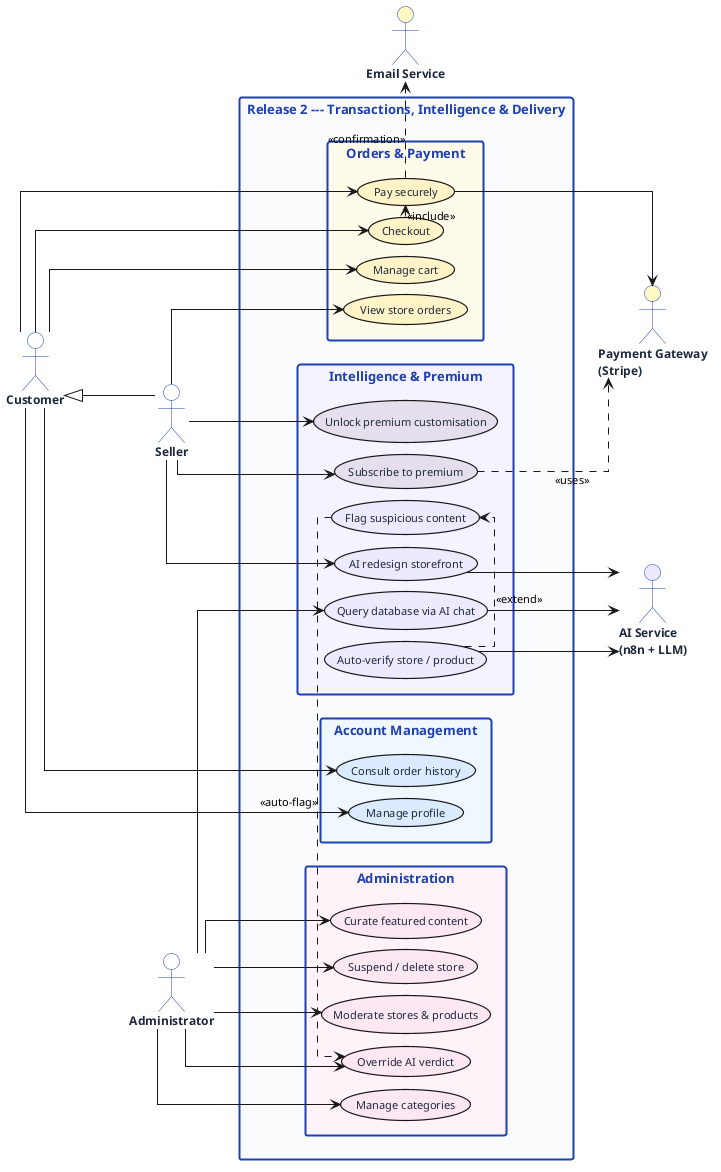
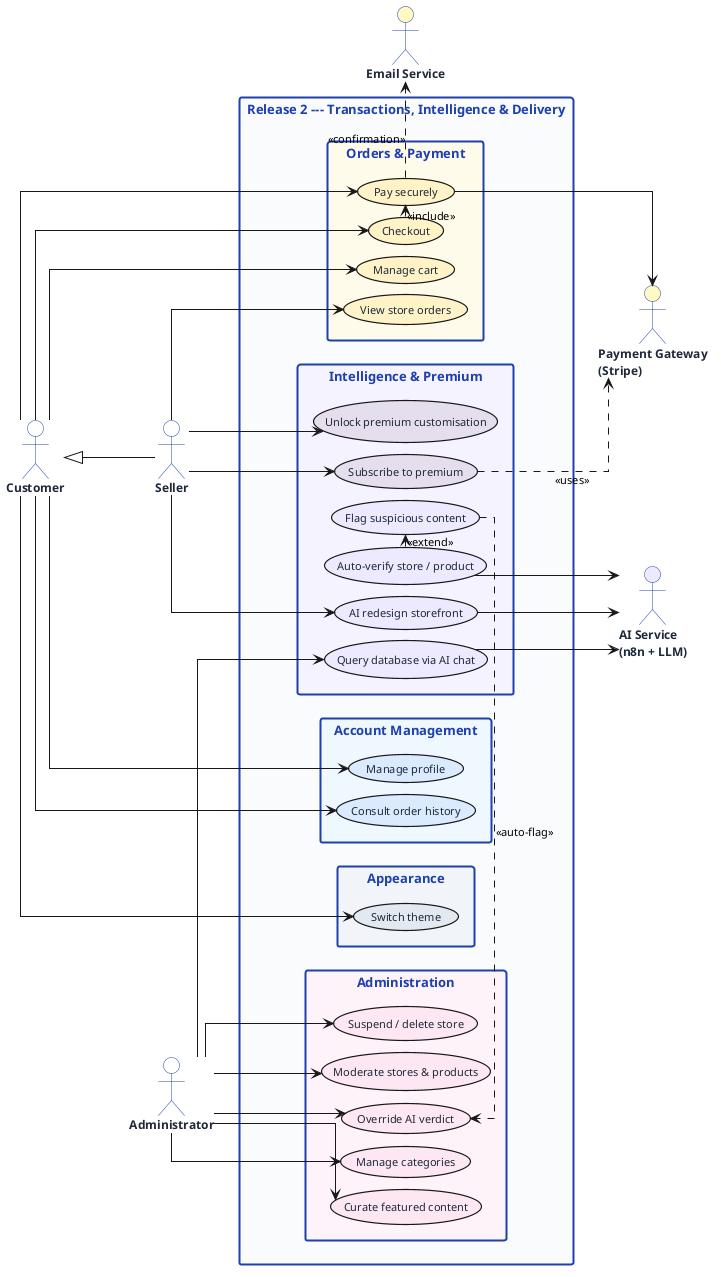
docs: fold dark-mode theming into the report scope
Document the dark-mode / theming feature added to the application as a
core project deliverable, threaded through every dependent artifact so
the Scrum narrative stays consistent (mirrors the password-reset +
account-management fold-in).

Backlog (Ch.2): add a 10th feature F10 Appearance & Theming with US40
(switch between a light and a dimmed dark theme, or follow the system
preference); update the counts to 40 user stories across 10 features and
the sprint plan (US40 -> Sprint 4).

Release 2 / Sprint 4 (Ch.4): add the Appearance & Theming feature row
(R2 total 49), thread theming through the release overview, the sprint
objective and the chapter conclusion, add a Switch theme textual use
case and a theming realisation placeholder.

Use-case diagrams: add a Switch theme use case to uc-sprint4 (new generic
User actor) and uc-release2 (wired to Customer); re-render the two PNGs.
No domain entities change (the theme preference lives in device-local
storage), so the class diagrams are untouched.

Test totals updated to reflect the new frontend suites: 479 tests
(backend 346, frontend 133); pyramid base layer 168. Also fix a stale
spelled-out "thirty-six user stories" left in the General Conclusion
(now "forty").

verify.sh: reconcile the changed count gates and add a slice #14 gate
block for the theming fold-in (152 gates, all green).

diff --git a/chap_04.tex b/chap_04.tex
@@ -25,7 +25,8 @@ stores in a single order, and pay through Stripe, while administrators
 moderate stores and products, curate featured content and manage
 categories. Sprint~4 adds the intelligence and delivery layers: automated
 AI verification of new stores and products, the AI database-chat
-assistant, the premium subscription tier, and the test suite and
+assistant, the premium subscription tier, a light/dark theming option,
+and the test suite and
 deployment pipeline. As before, the architecture and technology stack of
 Section~\ref{chap:requirements} are not repeated; this release
 instantiates them for the transactional, intelligence and delivery
@@ -66,8 +67,8 @@ trail and the featured-content entities.
 
 The release backlog draws the remaining user stories from the product
 backlog of Section~\ref{chap:requirements} --- including the payment
-story US36 and the account-management stories US38--US39 --- and
-allocates them to the two sprints, as summarised in
+story US36, the account-management stories US38--US39 and the theming
+story US40 --- and allocates them to the two sprints, as summarised in
 Table~\ref{tab:backlog-r2}.
 
 \begin{table}[H]
@@ -84,10 +85,11 @@ Table~\ref{tab:backlog-r2}.
     \multirow{3}{*}{Sprint 3} & Order System \& Payment & US14--US17, US36 & 11 \\ \cline{2-4}
                               & Account Management      & US38, US39       & 3 \\ \cline{2-4}
                               & Administration          & US19--US21       & 4 \\ \hline
-    \multirow{3}{*}{Sprint 4} & AI Verification         & US22--US24, US35 & 8 \\ \cline{2-4}
+    \multirow{4}{*}{Sprint 4} & AI Verification         & US22--US24, US35 & 8 \\ \cline{2-4}
                               & Premium Tier            & US25--US27       & 8 \\ \cline{2-4}
+                              & Appearance \& Theming   & US40             & 2 \\ \cline{2-4}
                               & CI/CD \& Deployment     & US28--US33       & 13 \\ \hline
-    \multicolumn{3}{|r|}{\textbf{Release~2 total}} & \textbf{47} \\ \hline
+    \multicolumn{3}{|r|}{\textbf{Release~2 total}} & \textbf{49} \\ \hline
   \end{tabularx}
 \end{table}
 
@@ -362,7 +364,11 @@ natural-language database chat assistant for diagnostics, and sellers can
 subscribe to a premium tier --- reusing the Stripe machinery of Sprint~3
 --- that unlocks the full customisation set and multiple stores. The AI
 capabilities are delivered through three independent n8n workflows
-invoked by the backend over HTTP.
+invoked by the backend over HTTP. Finally, the sprint rounds out the user
+experience with an appearance option: a light and a dimmed dark theme,
+chosen explicitly or following the operating-system preference and
+applied consistently across the application chrome through CSS design
+tokens.
 
 \subsection{Sprint Use-Case Diagram}
 
@@ -381,7 +387,7 @@ multiple stores through the Stripe gateway.
 
 \subsection{Analysis and Design}
 
-The three central use cases of the sprint are specified textually, then
+The four central use cases of the sprint are specified textually, then
 the verification and moderation control flows are given as activity
 diagrams and the verification exchange as a sequence diagram.
 
@@ -441,6 +447,25 @@ diagrams and the verification exchange as a sequence diagram.
     Post-conditions & After a successful Stripe payment, \texttt{isPremium} becomes \texttt{true} and \texttt{premiumExpiresAt} is set to a future date; premium customisation fields and multi-store operation are unlocked. \\ \hline
     Nominal scenario & 1.~The seller opens the premium plan. \newline 2.~The seller pays through the same Stripe machinery used at checkout. \newline 3.~On payment success the account is marked premium with an expiry date. \newline 4.~The premium controls unlock. \\ \hline
     Alternative scenarios & A1.~The subscription expires: premium fields lock for further editing, but the existing premium customisation values are preserved and remain visible to buyers (US27). \\ \hline
+  \end{tabularx}
+\end{table}
+
+\begin{table}[H]
+  \centering
+  \caption{Textual description of the \emph{Switch theme} use case.}
+  \label{tab:uc-theme}
+  \renewcommand{\arraystretch}{1.25}
+  \begin{tabularx}{\textwidth}{|>{\bfseries}p{3cm}|X|}
+    \hline
+    \rowcolor{tableHeader}
+    \multicolumn{2}{|l|}{\textcolor{white}{\textbf{Use case: Switch theme}}} \\
+    \hline
+    Actor & Any user, whether authenticated or not. \\ \hline
+    Objective & Choose how the application is rendered: a light theme, a dimmed dark theme, or automatically following the operating-system preference. \\ \hline
+    Pre-conditions & None; the theme switch is reachable from any page through the navigation chrome. \\ \hline
+    Post-conditions & The interface re-themes immediately and the choice is persisted on the device, so it is re-applied before first paint on later visits. \\ \hline
+    Nominal scenario & 1.~The user opens the theme switch and picks light, dark or system. \newline 2.~The interface re-themes at once through CSS design tokens, with no page reload. \newline 3.~The preference is stored locally and restored on the next visit before the first paint, so there is no flash of the wrong theme. \\ \hline
+    Alternative scenarios & A1.~The user picks \emph{system}: the interface follows the OS light/dark setting and updates live when that setting changes. \newline A2.~A seller storefront keeps its own seller-chosen palette and is intentionally not overridden by the application theme. \\ \hline
   \end{tabularx}
 \end{table}
 
@@ -533,7 +558,7 @@ subscription never degrades a storefront that is already live.
 
 \subsection{Realisation}
 
-The sprint delivers the AI-facing interfaces shown below. Each frame is a
+The sprint delivers the interfaces shown below. Each frame is a
 placeholder for the corresponding screenshot of the running application.
 
 \begin{figure}[H]
@@ -550,10 +575,17 @@ placeholder for the corresponding screenshot of the running application.
   \label{fig:real-aichat}
 \end{figure}
 
+\begin{figure}[H]
+  \centering
+  \imagePlaceholder[6cm]{Appearance --- the same page in the light theme and in the dimmed dark theme, with the theme switch open in the navigation bar}
+  \caption{Light and dimmed-dark application themes.}
+  \label{fig:real-theme}
+\end{figure}
+
 \section{Tests \& Validation}
 \label{sec:tests}
 
-Quality is enforced by an automated suite of \textbf{473 tests} that runs
+Quality is enforced by an automated suite of \textbf{479 tests} that runs
 on every push and gates every deployment.
 
 \subsection{Testing Strategy and Tooling}
@@ -593,12 +625,12 @@ layers.
     \footnotesize Real service code, mocked Prisma \\
     \footnotesize Product, Store, Order, Payment, User, Settings, Notification, \ldots \\[4pt]
     \hline\\[-6pt]
-    \textbf{Pure-logic + frontend (162 tests)} \\
+    \textbf{Pure-logic + frontend (168 tests)} \\
     \footnotesize No I/O, no framework wiring \\
     \footnotesize \texttt{validate-env}, \texttt{tndToStripeUsdMinor}, guards; stores, hooks, components \\
   \end{tabular}}
   \end{minipage}
-  \caption{Test pyramid --- 473 tests across backend (Jest, 346) and frontend (Vitest, 127).}
+  \caption{Test pyramid --- 479 tests across backend (Jest, 346) and frontend (Vitest, 133).}
   \label{fig:test-pyramid}
 \end{figure}
 
@@ -617,9 +649,11 @@ authorisation wiring admits exactly the intended routes.
 \subsection{Frontend Tests}
 
 The frontend tests cover the Zustand stores, the custom hooks and the
-React components, mounting them in a jsdom environment and asserting on
-accessible, user-visible output. Together with the backend suite they
-give the layered coverage summarised in the pyramid above.
+React components --- including the theme switch and the centralised
+status-badge helper introduced with the light/dark theming --- mounting
+them in a jsdom environment and asserting on accessible, user-visible
+output. Together with the backend suite they give the layered coverage
+summarised in the pyramid above.
 
 \subsection{Code Coverage and Continuous Integration}
 
@@ -779,9 +813,10 @@ purchase history, and the administration tooling to moderate stores and
 products, curate featured content and manage categories.
 Sprint~4 added the intelligence and delivery layers --- the automated AI
 verification pipeline with administrative override, the database chat
-assistant, the premium tier built on the same payment machinery, and the
+assistant, the premium tier built on the same payment machinery, a light
+and dimmed-dark theming option, and the
 testing and DevOps that bring the platform to production: a layered suite
-of 473 tests, containerised services behind a TLS-terminating proxy,
+of 479 tests, containerised services behind a TLS-terminating proxy,
 infrastructure described with Terraform, and a GitHub Actions pipeline
 that tests, builds and deploys on every push to \texttt{main}. The
 marketplace planned in the first two chapters is now fully realised,

diff --git a/chap_02.tex b/chap_02.tex
@@ -335,12 +335,15 @@ the estimated complexity.
   & US38 & As a user, I want to view and edit my profile and change my password so that I can keep my account details current and secure. & \cellcolor{moscowMust}\textbf{Must} & \cellcolor{complexMed}\textbf{2} \\\hline
   \cellcolor{featAccount}~ & US39 & As a customer, I want to consult my purchase history so that I can review my past orders. & \cellcolor{moscowShould}\textbf{Should} & \cellcolor{complexLow}\textbf{1} \\\hline
 
+  \cellcolor{featTheme}\makecell[c]{\textbf{F10}\\\small Appearance\\\& Theming}
+  & US40 & As a user, I want to switch between a light and a dimmed dark theme, or follow my system preference, so that I can browse comfortably in low light. & \cellcolor{moscowCould}\textbf{Could} & \cellcolor{complexMed}\textbf{2} \\\hline
+
 \end{longtable}
 
 \subsection{Analysis Summary}
 
-The product backlog comprises \textbf{39 user stories} across
-\textbf{9 features}. The bulk are \textit{Must} or \textit{Should}
+The product backlog comprises \textbf{40 user stories} across
+\textbf{10 features}. The bulk are \textit{Must} or \textit{Should}
 priorities forming the marketplace core, while a few advanced
 capabilities (AI redesign, premium-customisation preservation) are
 \textit{Could} items scheduled only once the essentials are delivered.
@@ -374,7 +377,7 @@ goal and user stories.
     \multirow{2}{*}{\textbf{Release 2}}
       & Sprint 3 & Orders, payment, account and administration & US14--US17, US19--US21, US36, US38, US39 \\
     \cline{2-4}
-      & Sprint 4 & AI verification, premium tier and DevOps & US22--US33, US35 \\
+      & Sprint 4 & AI verification, premium tier, theming and DevOps & US22--US33, US35, US40 \\
     \hline
   \end{tabularx}
 \end{table}
@@ -526,7 +529,7 @@ actors were identified, the functional requirements grouped into seven
 domains and the non-functional requirements stated, then illustrated
 with the global use-case diagram and the class diagram. The Scrum
 management of the project was presented --- the team, the MoSCoW-prioritised
-product backlog of 39 user stories across 9 features, and the planning
+product backlog of 40 user stories across 10 features, and the planning
 of four sprints over two releases --- together with the schedule and the
 architecture and technical choices that frame the realisation. The
 following chapters describe the development of the two releases.

diff --git a/conclusion.tex b/conclusion.tex
@@ -15,7 +15,7 @@ situating the project in its organisational and competitive context, we
 analysed the requirements, identified the actors, and specified the
 functional and non-functional needs, which we modelled with UML use-case
 and class diagrams. The Scrum framework then organised the work into a
-product backlog of thirty-six user stories and a plan of two releases of
+product backlog of forty user stories and a plan of two releases of
 two sprints each, underpinned by the architecture and technical choices
 that frame the realisation.
 
@@ -31,7 +31,7 @@ server-authoritative Stripe payment flow confirmed by a
 signature-verified webhook; the administration and moderation tooling; an
 automated AI verification pipeline with administrative override and a
 natural-language database-chat assistant; a premium subscription tier;
-and the quality and delivery layers --- a layered suite of 473 automated
+and the quality and delivery layers --- a layered suite of 479 automated
 tests, containerised services behind a TLS-terminating reverse proxy,
 infrastructure described as code with Terraform, and a continuous
 deployment pipeline that tests, builds and ships on every push to the

diff --git a/tpl/new_commands.tex b/tpl/new_commands.tex
@@ -178,6 +178,7 @@
 \definecolor{featPremium}{HTML}{E4DFEC}
 \definecolor{featCICD}{HTML}{F2DCDB}
 \definecolor{featAccount}{HTML}{E8E1F5}
+\definecolor{featTheme}{HTML}{DCE3EC}
 
 %====== clickable cross-references (hyperref) ======%
 % Loaded last (after minitoc and caption). Makes every \ref, the table